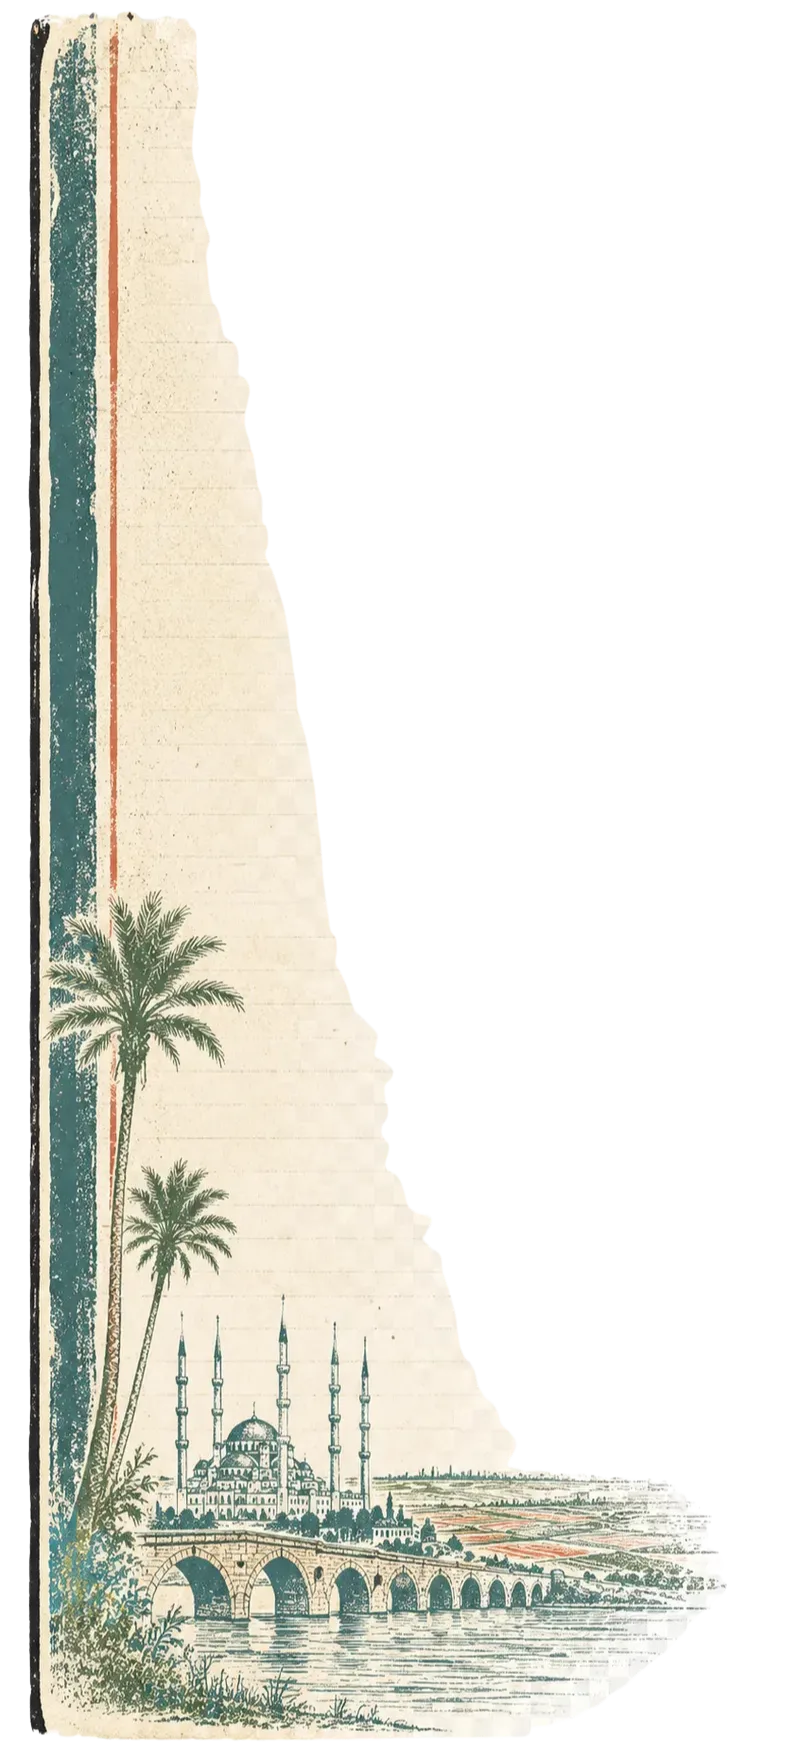
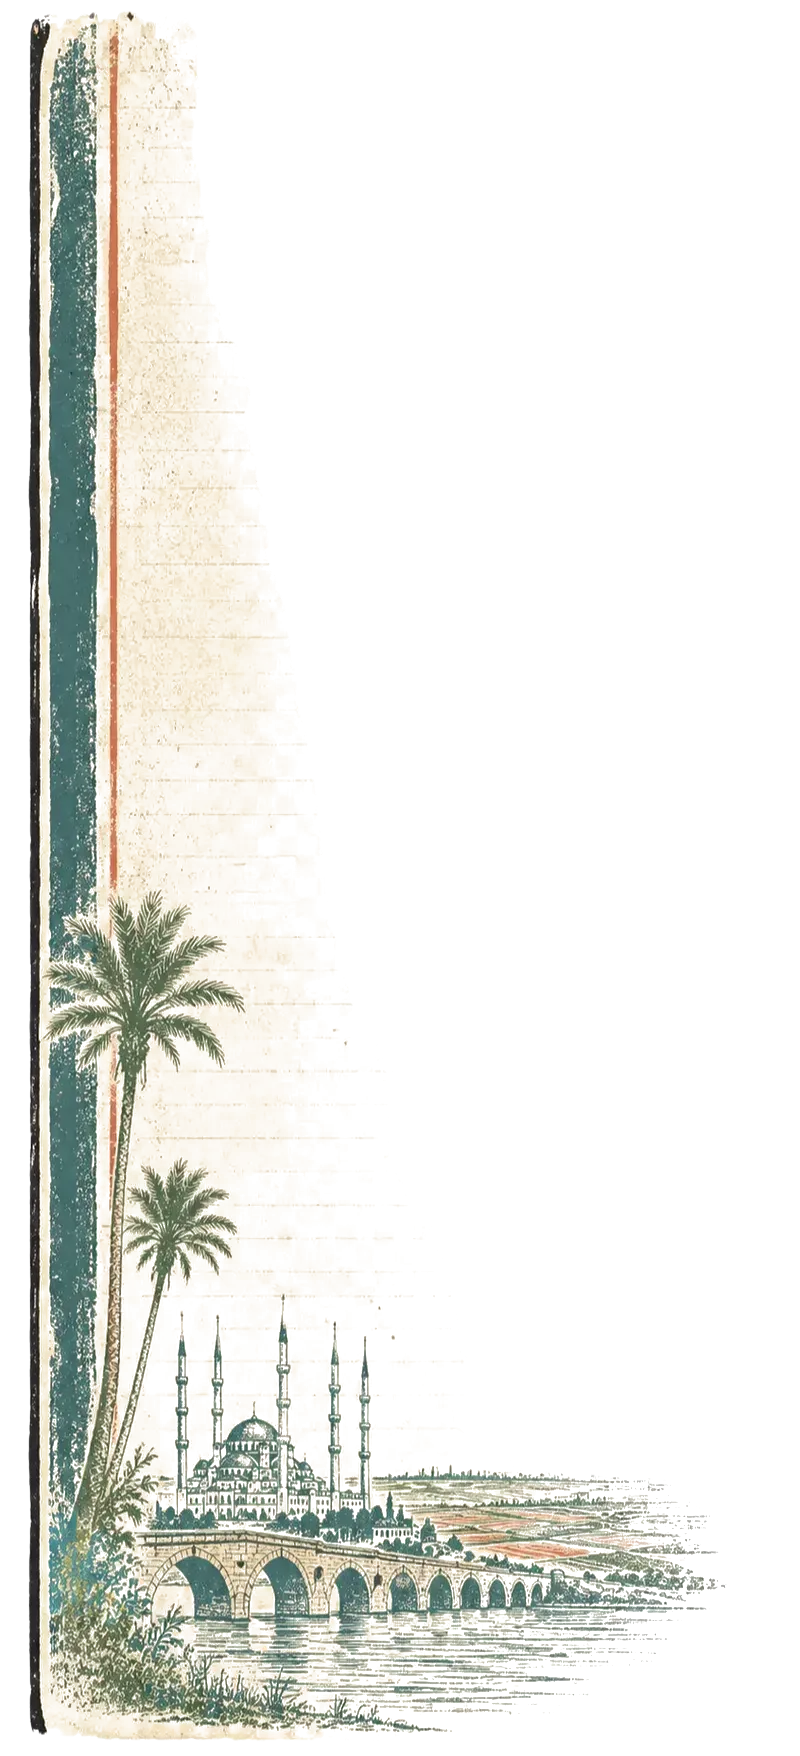
fix: margin art no longer overlaps the header + cleaner transparency
Two issues reported on the margin panels:
- They started at top:0, under the transparent 64px header, so the art bled
  through behind the title/back/toggle. Now start at top:64px (below the header).
- The art still carried an opaque cream page-edge band (~243,230,202) that read
  as a non-transparent strip against the paper. Knocked the light low-saturation
  cream out to transparent with a soft alpha ramp (keeps the linework, teal
  stripe, palms and skyline) — clear area 58%→65% (left) / 61%→70% (right).

Verified: header row clear on desktop; margins read as art-on-page (no cream
strip); dark still shows them; ≤980px still hides them; build clean; no console
errors.

diff --git a/app/+html.tsx b/app/+html.tsx
@@ -77,7 +77,7 @@ body::after{
    fades the art off the content. Hidden ≤980px. Shown in both themes; the dark
    treatment (if any) is set below. */
 .mdr-side{
-  position:fixed; top:0; bottom:0; z-index:0;
+  position:fixed; top:64px; bottom:0; z-index:0;   /* start below the 64px header */
   width:calc((100% - 640px) / 2);
   max-width:440px;
   pointer-events:none;